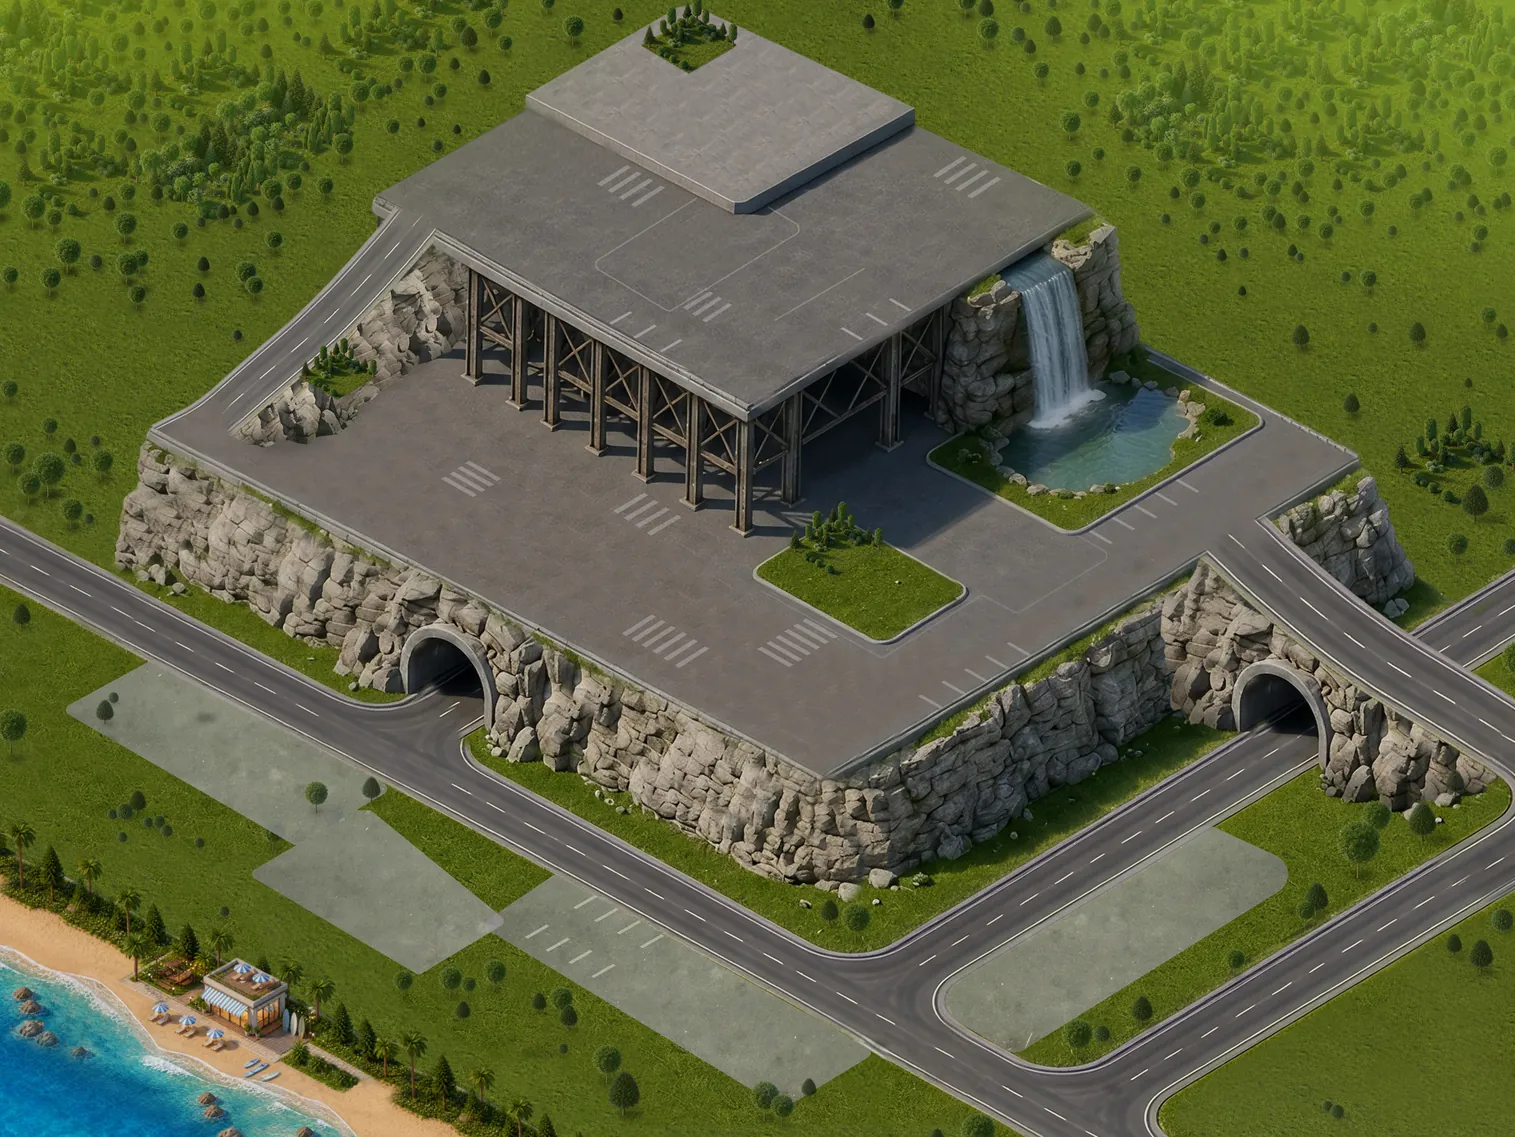
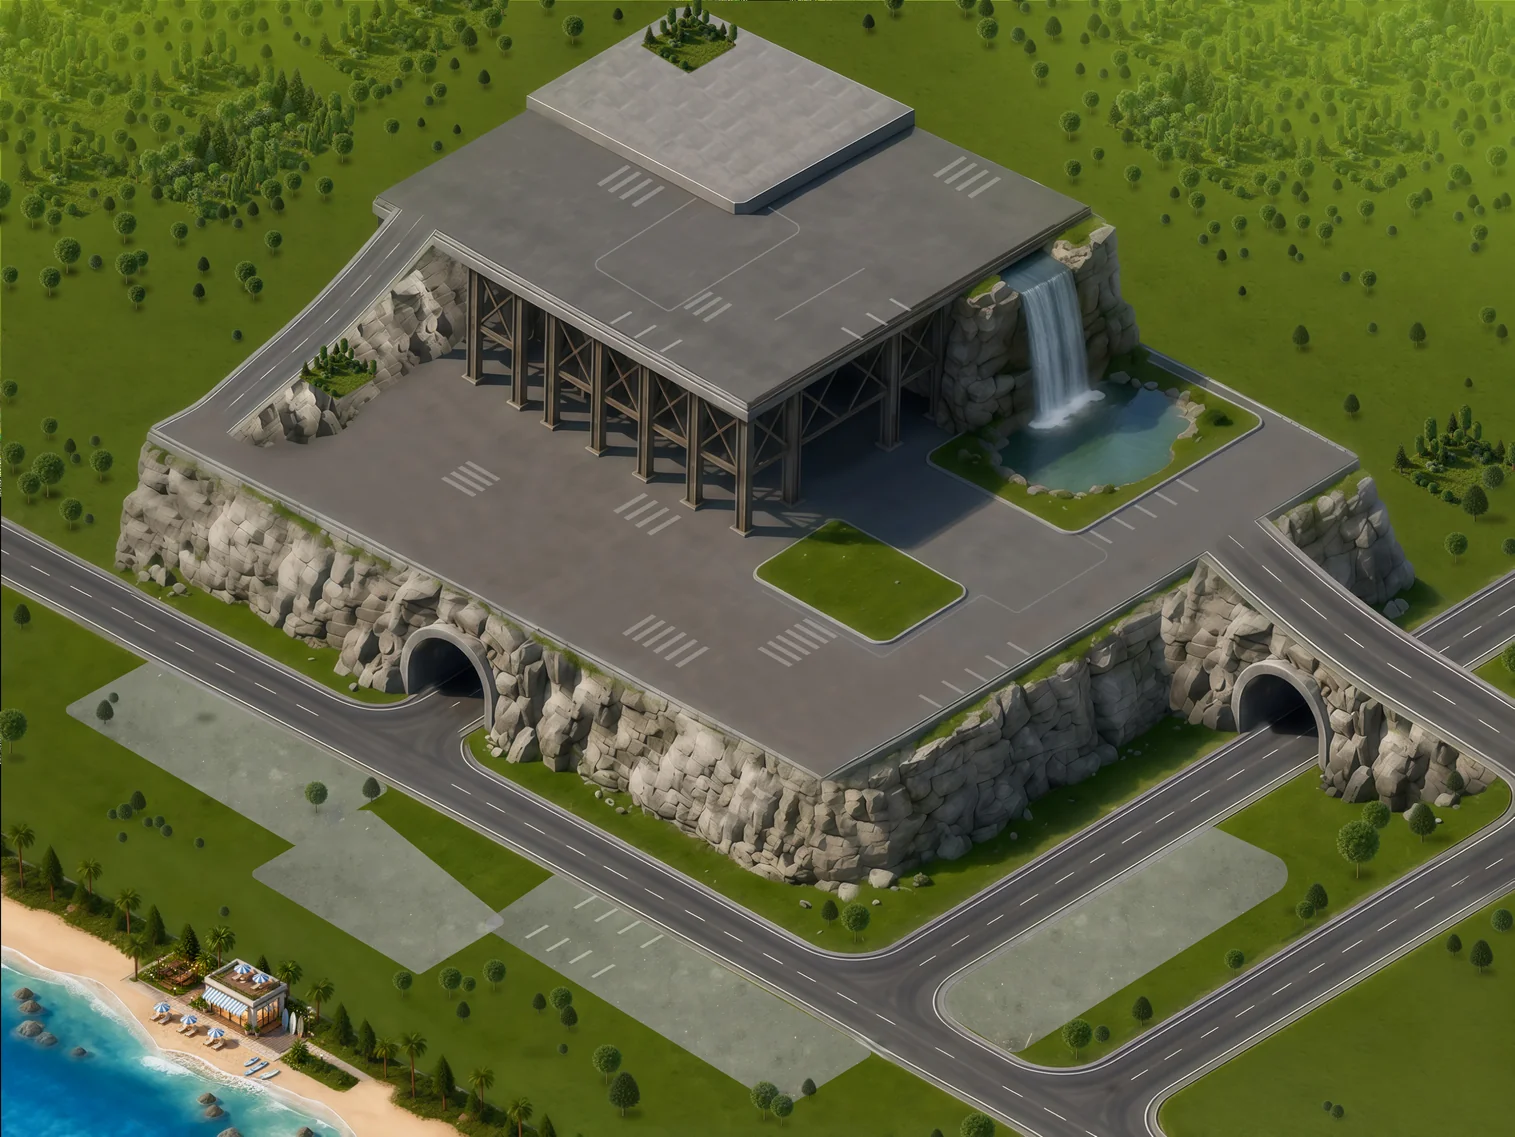
Плашка с названием при наведении, новый фон, пешеходы у «Мэрии»
- Плашка с названием здания при наведении мышью и фокусе с клавиатуры (макет Figma 671:1276)
- Подложка заново выгружена из Figma (карта + разметка), чётче прежней
- Пешеходы у уступа под «Мэрией» больше не ходят по самому уступу: один выше, у фонтана, другой ниже, по дороге
- Версия ?v= у CSS, JS и подложки в index.html, чтобы GitHub Pages не отдавал старое из кэша

diff --git a/js/city.js b/js/city.js
@@ -153,14 +153,87 @@
             openPopup(b.popup, hit, bld);
           });
           hit.addEventListener('focus', function () {
-            if (hit.matches(':focus-visible')) bld.classList.add('is-kbd-focus');
+            if (hit.matches(':focus-visible')) { bld.classList.add('is-kbd-focus'); showTip(b, popup); }
           });
-          hit.addEventListener('blur', function () { bld.classList.remove('is-kbd-focus'); });
-          hit.addEventListener('pointerenter', function () { preloadPopup(b.popup); });
+          hit.addEventListener('blur', function () { bld.classList.remove('is-kbd-focus'); hideTip(b); });
+          hit.addEventListener('pointerenter', function (e) {
+            preloadPopup(b.popup);
+            if (e.pointerType === 'mouse' || e.pointerType === 'pen') showTip(b, popup);
+          });
+          hit.addEventListener('pointerleave', function () { hideTip(b); });
           buildingsById[b.id] = { el: bld, hit: hit, data: b };
         }
       });
     });
+  }
+
+  /* ============================================================ плашка с названием при наведении */
+  // Макет: Figma 671:1276 «Блок с названием». Шестигранник с синей обводкой и указателем на здание.
+  // Живёт в координатах макета (внутри сцены), поэтому едет вместе с картой при прокрутке.
+  // Текст — popup.label, если задан, иначе popup.title. Длинное название переносится на 2 строки.
+  var TIP = { depth: 26, height: 66, arrowW: 31.18, arrowH: 27, gap: 4, margin: 8 };   // размеры из макета
+  var SVGNS = 'http://www.w3.org/2000/svg';
+  var tip = null, tipOwner = null;
+
+  function buildTip() {
+    tip = el('div', 'ctc-tip', stage);
+    tip.setAttribute('aria-hidden', 'true');   // название уже есть в aria-label кнопки здания
+    var svg = document.createElementNS(SVGNS, 'svg');
+    svg.setAttribute('class', 'ctc-tip__shape');
+    svg.innerHTML = '<defs><clipPath id="ctc-tip-clip"><path/></clipPath></defs>' +
+      '<path class="ctc-tip__fill"/><path class="ctc-tip__stroke" clip-path="url(#ctc-tip-clip)"/><path class="ctc-tip__arrow"/>';
+    tip.appendChild(svg);
+    tip.svg = svg;
+    tip.paths = svg.querySelectorAll('path');
+    tip.text = el('span', 'ctc-tip__text', tip);
+  }
+
+  function showTip(b, popup) {
+    if (!tip || dialog.hasAttribute('open') || dragMoved) return;
+    tipOwner = b;
+    tip.text.textContent = popup.label || popup.title;
+    tip.text.style.paddingLeft = tip.text.style.paddingRight = '';
+    tip.classList.remove('is-below');
+    // высота (1 или 2 строки) задаёт глубину углов: пропорции шестигранника как в макете
+    var h = tip.text.offsetHeight;
+    var depth = Math.round(TIP.depth * h / TIP.height);
+    tip.text.style.paddingLeft = tip.text.style.paddingRight = px(depth + 7);
+    var w = tip.text.offsetWidth;
+
+    // якорь — середина верхней кромки здания; если сверху не помещается в видимую часть карты — под зданием
+    var v = b.vis, ax = v[0] + v[2] / 2;
+    var vx0 = Math.max(0, viewport.scrollLeft / k), vx1 = Math.min(W, (viewport.scrollLeft + viewport.clientWidth) / k);
+    var vy0 = Math.max(0, viewport.scrollTop / k);
+    var total = h + TIP.arrowH - 1;
+    var below = v[1] - TIP.gap - total < vy0 + TIP.margin;
+    var top = below ? v[1] + v[3] + TIP.gap : v[1] - TIP.gap - total;
+    var left = clamp(ax - w / 2, vx0 + TIP.margin, vx1 - TIP.margin - w);
+    var cx = clamp(ax - left, depth + TIP.arrowW, w - depth - TIP.arrowW);
+
+    var y0 = below ? TIP.arrowH - 1 : 0;   // верх шестигранника внутри плашки
+    var hex = 'M' + depth + ' ' + y0 + 'H' + (w - depth) + 'L' + w + ' ' + (y0 + h / 2) + 'L' + (w - depth) + ' ' + (y0 + h) +
+      'H' + depth + 'L0 ' + (y0 + h / 2) + 'Z';
+    var aw = TIP.arrowW / 2;
+    var arrow = below
+      ? 'M' + (cx - aw) + ' ' + TIP.arrowH + 'H' + (cx + aw) + 'L' + cx + ' 0Z'
+      : 'M' + (cx - aw) + ' ' + (h - 1) + 'H' + (cx + aw) + 'L' + cx + ' ' + total + 'Z';
+    tip.svg.setAttribute('width', w);
+    tip.svg.setAttribute('height', total);
+    tip.svg.setAttribute('viewBox', '0 0 ' + w + ' ' + total);
+    tip.paths[0].setAttribute('d', hex);
+    tip.paths[1].setAttribute('d', hex);
+    tip.paths[2].setAttribute('d', hex);
+    tip.paths[3].setAttribute('d', arrow);
+    tip.classList.toggle('is-below', below);
+    tip.style.left = px(Math.round(left));
+    tip.style.top = px(Math.round(top));
+    tip.classList.add('is-on');
+  }
+
+  function hideTip(b) {
+    if (!tip || (b && b !== tipOwner)) return;
+    tipOwner = null;
+    tip.classList.remove('is-on');
   }
 
   function buildDecor() {
@@ -289,6 +362,7 @@
 
   function openPopup(id, trigger, bld) {
     if (!CFG.popups[id] || closing) return;
+    hideTip();
     fillPopup(id);
     lastTrigger = trigger;
     activeBld = bld;
@@ -1143,7 +1217,7 @@
     window.addEventListener('pointermove', function (e) {
       if (!down) return;
       var dx = e.clientX - down.x, dy = e.clientY - down.y;
-      if (!dragMoved && Math.hypot(dx, dy) > 6) { dragMoved = true; viewport.classList.add('is-dragging'); }
+      if (!dragMoved && Math.hypot(dx, dy) > 6) { dragMoved = true; viewport.classList.add('is-dragging'); hideTip(); }
       if (dragMoved) { viewport.scrollLeft = down.sl - dx; viewport.scrollTop = down.st - dy; }
     });
     window.addEventListener('pointerup', function () {
@@ -1317,6 +1391,7 @@
 
   /* ============================================================ старт */
   function init() {
+    buildTip();
     buildBuildings();
     buildDecor();
     buildParkedCars();

diff --git a/js/config.js b/js/config.js
@@ -10,6 +10,7 @@ window.CTC_CONFIG = {
    * Ключ — id оверлея в Figma (режим Prototype). Связь «здание → попап»
    * лежит в js/scene-data.js (поле popup у здания).
    * text — абзацы; строка «Написать: …@…» автоматически становится ссылкой mailto.
+   * label (необязательно) — короткое название для плашки при наведении; без него берётся title.
    * Сами ссылки и адреса почты — в js/links.js (константы CTC_LINKS.*).
    */
   popups: {
@@ -182,9 +183,10 @@ window.CTC_CONFIG = {
       z1: [1242, 1004], z2: [1306, 1036], z3: [1270, 1243], z4: [1362, 1289],
       // верхний настил: петля по площади между магазинами, куполом и зданием с рупором + «хвост» к магазину со штампом
       k1: [1385, 592], k2: [1565, 502], k3: [1665, 452], k4: [1735, 487], k5: [1635, 537],
-      // верхний настил: полоса под уступом — два отдельных отрезка, чтобы пешеходы не встречались;
-      // левый конец спрятан за синим зданием, правый — у самой кромки участка юридического отдела (на участок не заходит)
-      g1: [1200, 298], g2: [1280, 338], h1: [1312, 354], h2: [1376, 386]
+      // верхний настил у уступа под «Мэрией» — два отдельных отрезка, не по самому уступу:
+      // g — выше, по проезду перед фонтаном (левый конец спрятан за синим зданием с пакетом молока),
+      // h — ниже, по дороге между стеной уступа и стеклянным зданием (правый конец не заходит на участок со штампом)
+      g1: [1250, 269], g2: [1352, 320], h1: [1318, 370], h2: [1366, 394]
     },
     edges: [
       ['b1', 'b1b2_1'], ['b1b2_1', 'b2'], ['b2', 'b3'], ['b3', 'b3b4_2'], ['b3b4_2', 'b4'],
@@ -192,7 +194,8 @@ window.CTC_CONFIG = {
       ['c2c3_5', 'c2c3_6'], ['c2c3_6', 'c3'], ['z1', 'z2', { z: 1180 }], ['z3', 'z4', { z: 1300 }],
       // z: 600 — пешеход вдоль магазинов рисуется перед их участками (ноги ниже нижней кромки участков)
       ['k1', 'k2', { z: 600 }], ['k2', 'k3', { z: 600 }], ['k3', 'k4'], ['k4', 'k5'], ['k5', 'k2', { z: 600 }],
-      ['g1', 'g2'], ['h1', 'h2']
+      // z: 350 — перед участком «Мэрии» (z 332), но за синим зданием с пакетом молока (z 380)
+      ['g1', 'g2', { z: 350 }], ['h1', 'h2']
     ]
   },
 

diff --git a/css/city.css b/css/city.css
@@ -182,6 +182,54 @@ html.ctc-lock { overflow: hidden; }
   touch-action: manipulation;
 }
 
+/* ------------------------------------------------------------------ плашка с названием при наведении
+ * Макет Figma 671:1276. Положение и форму (шестигранник по размеру текста) считает JS.
+ */
+.ctc-tip {
+  position: absolute;
+  left: 0; top: 0;
+  z-index: 5500;               /* над облаками */
+  pointer-events: none;
+  opacity: 0;
+  visibility: hidden;
+  transform: translateY(6px);
+  transition: opacity .2s var(--ctc-ease), transform .2s var(--ctc-ease), visibility 0s linear .2s;
+}
+.ctc-tip.is-below { transform: translateY(-6px); }
+.ctc-tip.is-on {
+  opacity: 1;
+  visibility: visible;
+  transform: none;
+  transition-delay: 0s;
+}
+.ctc-tip__shape {
+  position: absolute;
+  left: 0; top: 0;
+  display: block;
+  overflow: visible;
+}
+.ctc-tip__fill { fill: #f0f0f1; fill-opacity: .84; }
+.ctc-tip__stroke { fill: none; stroke: #5770f5; stroke-width: 6; }   /* половина обводки обрезана формой: 3 px внутрь, как в макете */
+.ctc-tip__arrow { fill: #5770f5; }
+.ctc-tip__text {
+  position: relative;
+  display: block;
+  box-sizing: content-box;
+  width: max-content;
+  max-width: 420px;            /* длиннее — перенос на вторую строку (самое длинное название как раз в 2 строки) */
+  margin-bottom: 26px;         /* место под указатель */
+  padding: 18.5px 33px;
+  font-size: 24px;
+  font-weight: 400;
+  line-height: 29px;
+  color: #000;
+  text-align: center;
+  text-shadow: 0 4px 4px rgba(0, 0, 0, .25);
+  text-wrap: balance;
+  white-space: normal;
+}
+.ctc-tip.is-below .ctc-tip__text { margin: 26px 0 0; }
+
 /* ------------------------------------------------------------------ декор, машины, люди */
 .ctc-decor, .ctc-car, .ctc-walker, .ctc-person {
   position: absolute;
@@ -497,6 +545,7 @@ html.ctc-shot *, html.ctc-shot *::before { transition: none !important; }
 /* ------------------------------------------------------------------ меньше движения */
 @media (prefers-reduced-motion: reduce) {
   .ctc-person > img, .ctc-cloud > img { animation: none; }
-  .ctc-card, .ctc-dialog, .ctc-bld, .ctc-hint { transition-duration: .01s; }
+  .ctc-card, .ctc-dialog, .ctc-bld, .ctc-hint, .ctc-tip { transition-duration: .01s; }
+  .ctc-tip, .ctc-tip.is-below { transform: none; }
   .ctc-card { transform: none; }
 }

diff --git a/index.html b/index.html
@@ -6,7 +6,7 @@
   <title>Город CrossTech - интерактивная карта</title>
   <meta name="description" content="Интерактивная карта кибергорода CrossTech: здания отделов, машины, жители.">
   <meta name="theme-color" content="#6f8f2e">
-  <link rel="stylesheet" href="css/city.css">
+  <link rel="stylesheet" href="css/city.css?v=20261022">
 </head>
 <body>
 
@@ -24,9 +24,9 @@
       <div class="ctc-sizer">
         <div class="ctc-stage" role="group" aria-label="Карта города">
           <img class="ctc-bg" alt="" width="3029" height="2274" fetchpriority="high"
-               src="assets/map/city-bg-small.webp"
-               data-src-small="assets/map/city-bg-small.webp"
-               data-src-full="assets/map/city-bg.webp">
+               src="assets/map/city-bg-small.webp?v=20261022"
+               data-src-small="assets/map/city-bg-small.webp?v=20261022"
+               data-src-full="assets/map/city-bg.webp?v=20261022">
           <div class="ctc-world"></div>
           <div class="ctc-clouds" aria-hidden="true"></div>
         </div>
@@ -58,9 +58,9 @@
     </div>
   </dialog>
 
-  <script src="js/links.js"></script>
-  <script src="js/config.js"></script>
-  <script src="js/scene-data.js"></script>
-  <script src="js/city.js"></script>
+  <script src="js/links.js?v=20261022"></script>
+  <script src="js/config.js?v=20261022"></script>
+  <script src="js/scene-data.js?v=20261022"></script>
+  <script src="js/city.js?v=20261022"></script>
 </body>
 </html>

diff --git a/README.md b/README.md
@@ -39,6 +39,11 @@ python -m http.server 8080      # или: npx serve .
 
 **Деплой.** Скопировать папку `city/` на хостинг как есть. Все пути относительные, домен нигде не прописан.
 
+**Кэш.** GitHub Pages отдаёт файлы с `Cache-Control: max-age=600`, заголовки там не настраиваются. Поэтому в `index.html`
+у CSS, скриптов и подложки стоит версия `?v=ГГГГММДД`. После любых правок CSS/JS или замены подложки поменяйте
+это число во всех местах `index.html` (одно и то же значение) — браузер и CDN загрузят файлы заново.
+Если меняется картинка здания или попапа, проще сохранить её под новым именем и поправить путь в `scene-data.js`.
+
 ## 2. Как устроено
 
 ### Масштаб и координаты
@@ -62,6 +67,10 @@ python -m http.server 8080      # или: npx serve .
   а сами ссылки кнопок и адреса почты — в `js/links.js` (например, `CTC_LINKS.MAYOR_MORE`). Чтобы поменять
   ссылку, достаточно поправить значение там; `'#'` значит «ссылки ещё нет».
 * Hover: `opacity: .7`, переход 0,2 с (только на устройствах с мышью). Тап равен клику.
+* Плашка с названием (макет `671:1276`): при наведении мышью или выборе клавишей Tab над зданием появляется
+  шестигранник с названием и указателем. Текст — `label` попапа, если задан, иначе `title`. Длинные названия
+  переносятся на 2 строки (до 420 px текста). Если сверху нет места в видимой части карты, плашка встаёт под зданием.
+  На тач-устройствах её нет: тап сразу открывает попап.
 * Попап — нативный `<dialog>` (`showModal`): затемнение `rgba(0,0,0,.7)` и появление
   «выезд снизу + fade» 0,3 с ease-in-out, как Move In в Prototype. Закрывается кликом по фону,
   крестиком и Esc с обратной анимацией. Есть ловушка фокуса, после закрытия фокус возвращается на здание.
